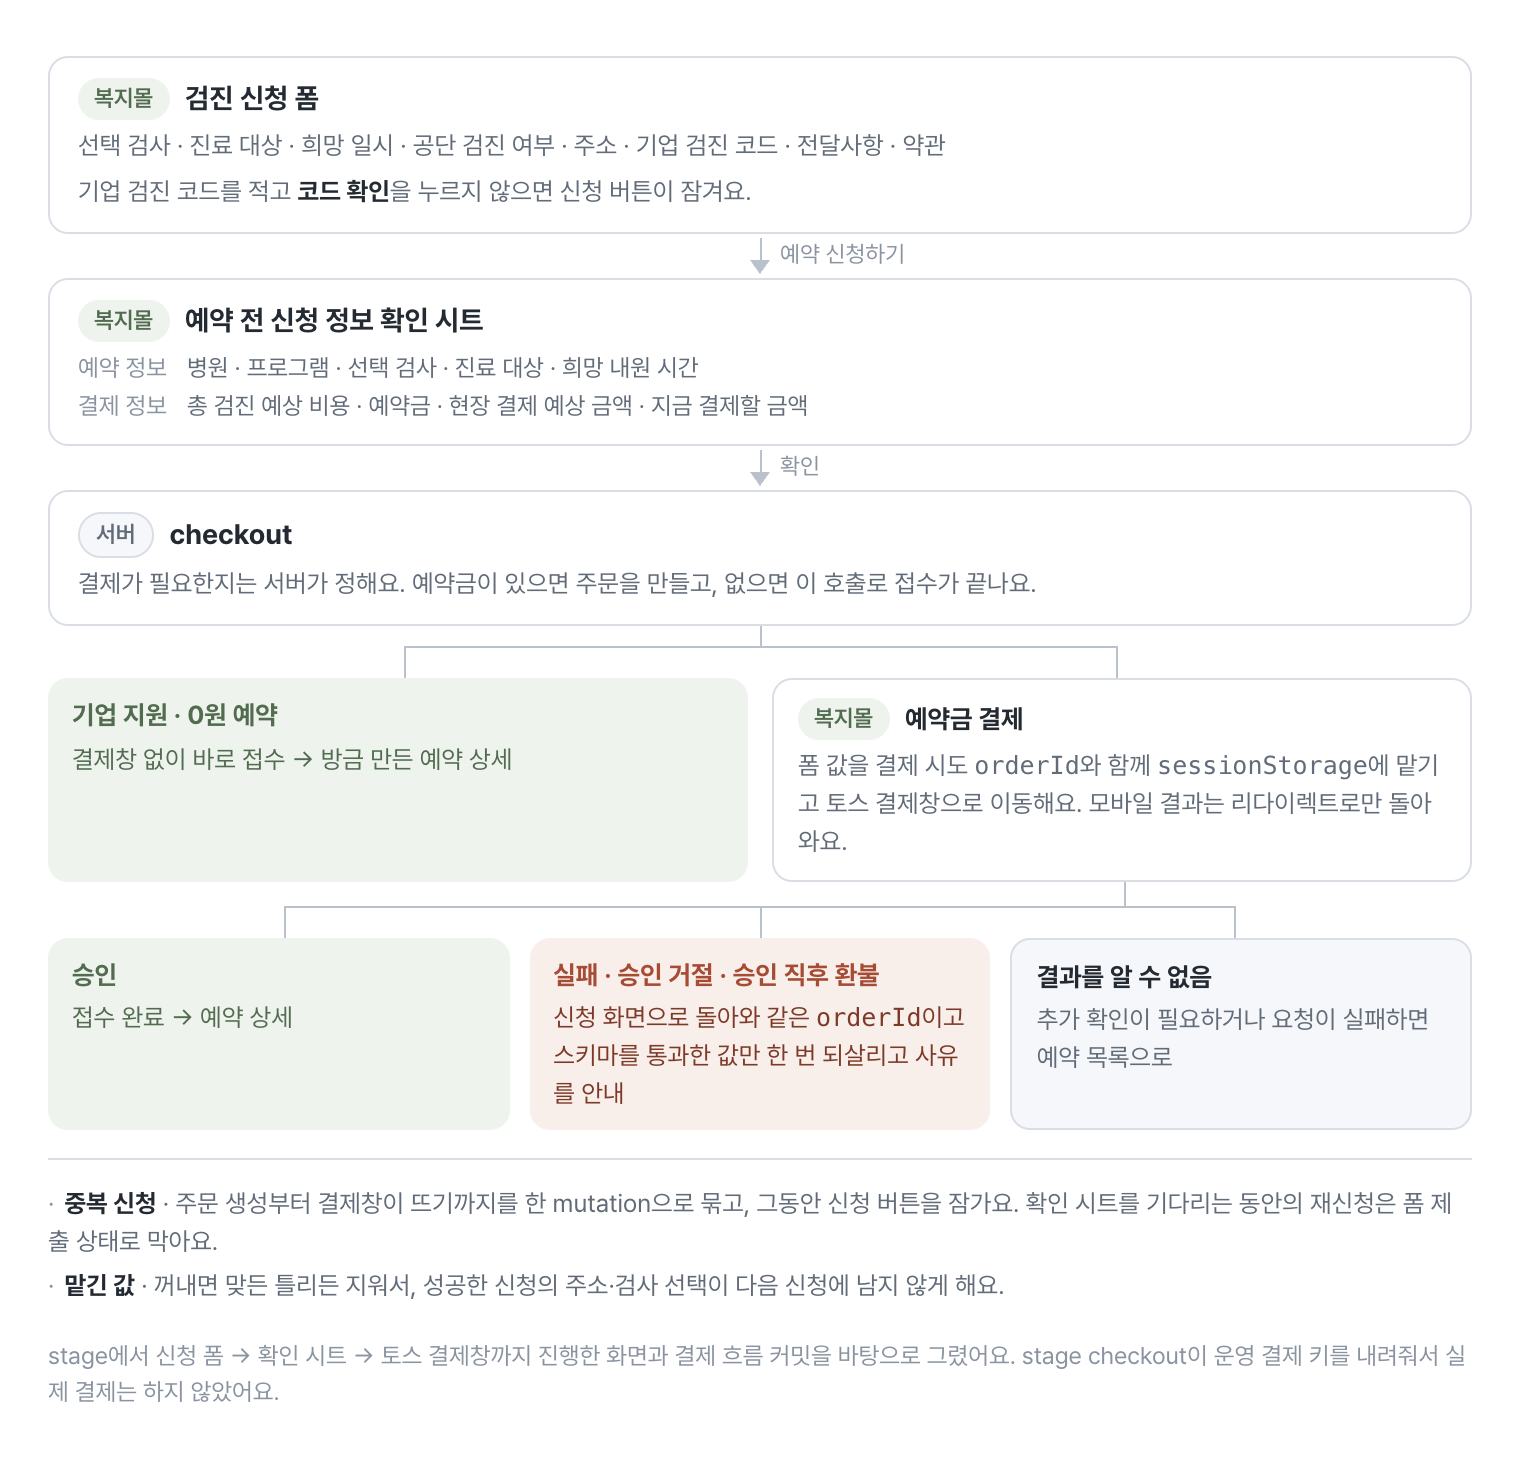
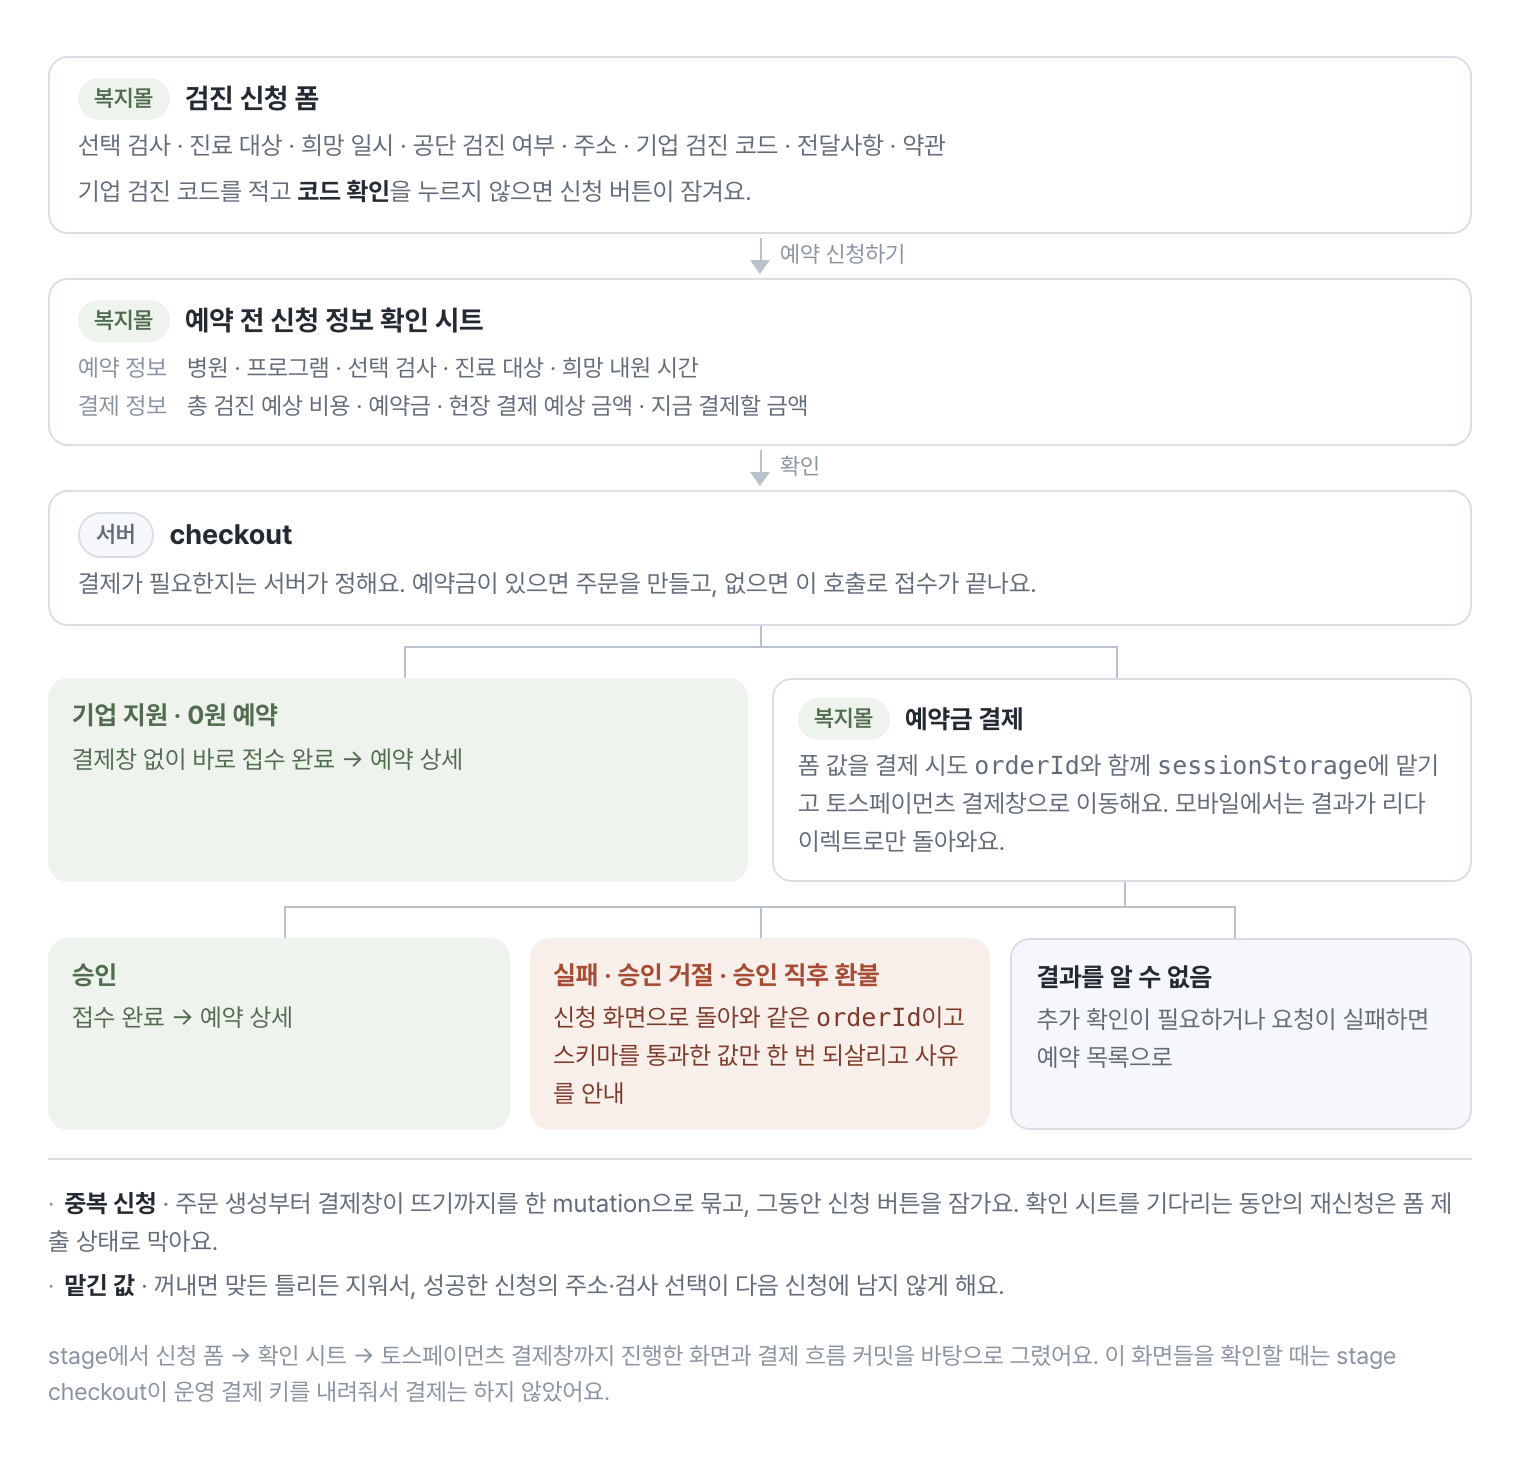
docs(blog): 건강검진 그림의 도착 화면·상세 구획·결제창 명칭·각주를 바로잡는다 (05-checkout-states)

diff --git a/blog/assets/figures/health-check/src/05-checkout-states.html b/blog/assets/figures/health-check/src/05-checkout-states.html
@@ -57,10 +57,10 @@
 <div class="fan2"><i style="left:25%"></i><i style="left:75%"></i></div>
 
 <div class="two">
-  <div class="res ok"><b>기업 지원 · 0원 예약</b>결제창 없이 바로 접수 → 방금 만든 예약 상세</div>
+  <div class="res ok"><b>기업 지원 · 0원 예약</b>결제창 없이 바로 접수 완료 → 예약 상세</div>
   <div class="node" style="padding:9px 12px">
     <div class="h"><span class="app mall">복지몰</span><b style="font-size:13px">예약금 결제</b></div>
-    <p>폼 값을 결제 시도 <code>orderId</code>와 함께 <code>sessionStorage</code>에 맡기고 토스 결제창으로 이동해요. 모바일 결과는 리다이렉트로만 돌아와요.</p>
+    <p>폼 값을 결제 시도 <code>orderId</code>와 함께 <code>sessionStorage</code>에 맡기고 토스페이먼츠 결제창으로 이동해요. 모바일에서는 결과가 리다이렉트로만 돌아와요.</p>
   </div>
 </div>
 
@@ -76,5 +76,5 @@
   <li><b>맡긴 값</b> · 꺼내면 맞든 틀리든 지워서, 성공한 신청의 주소·검사 선택이 다음 신청에 남지 않게 해요.</li>
 </ul>
 
-<p class="foot">stage에서 신청 폼 → 확인 시트 → 토스 결제창까지 진행한 화면과 결제 흐름 커밋을 바탕으로 그렸어요. stage checkout이 운영 결제 키를 내려줘서 실제 결제는 하지 않았어요.</p>
+<p class="foot">stage에서 신청 폼 → 확인 시트 → 토스페이먼츠 결제창까지 진행한 화면과 결제 흐름 커밋을 바탕으로 그렸어요. 이 화면들을 확인할 때는 stage checkout이 운영 결제 키를 내려줘서 결제는 하지 않았어요.</p>
 </body></html>
